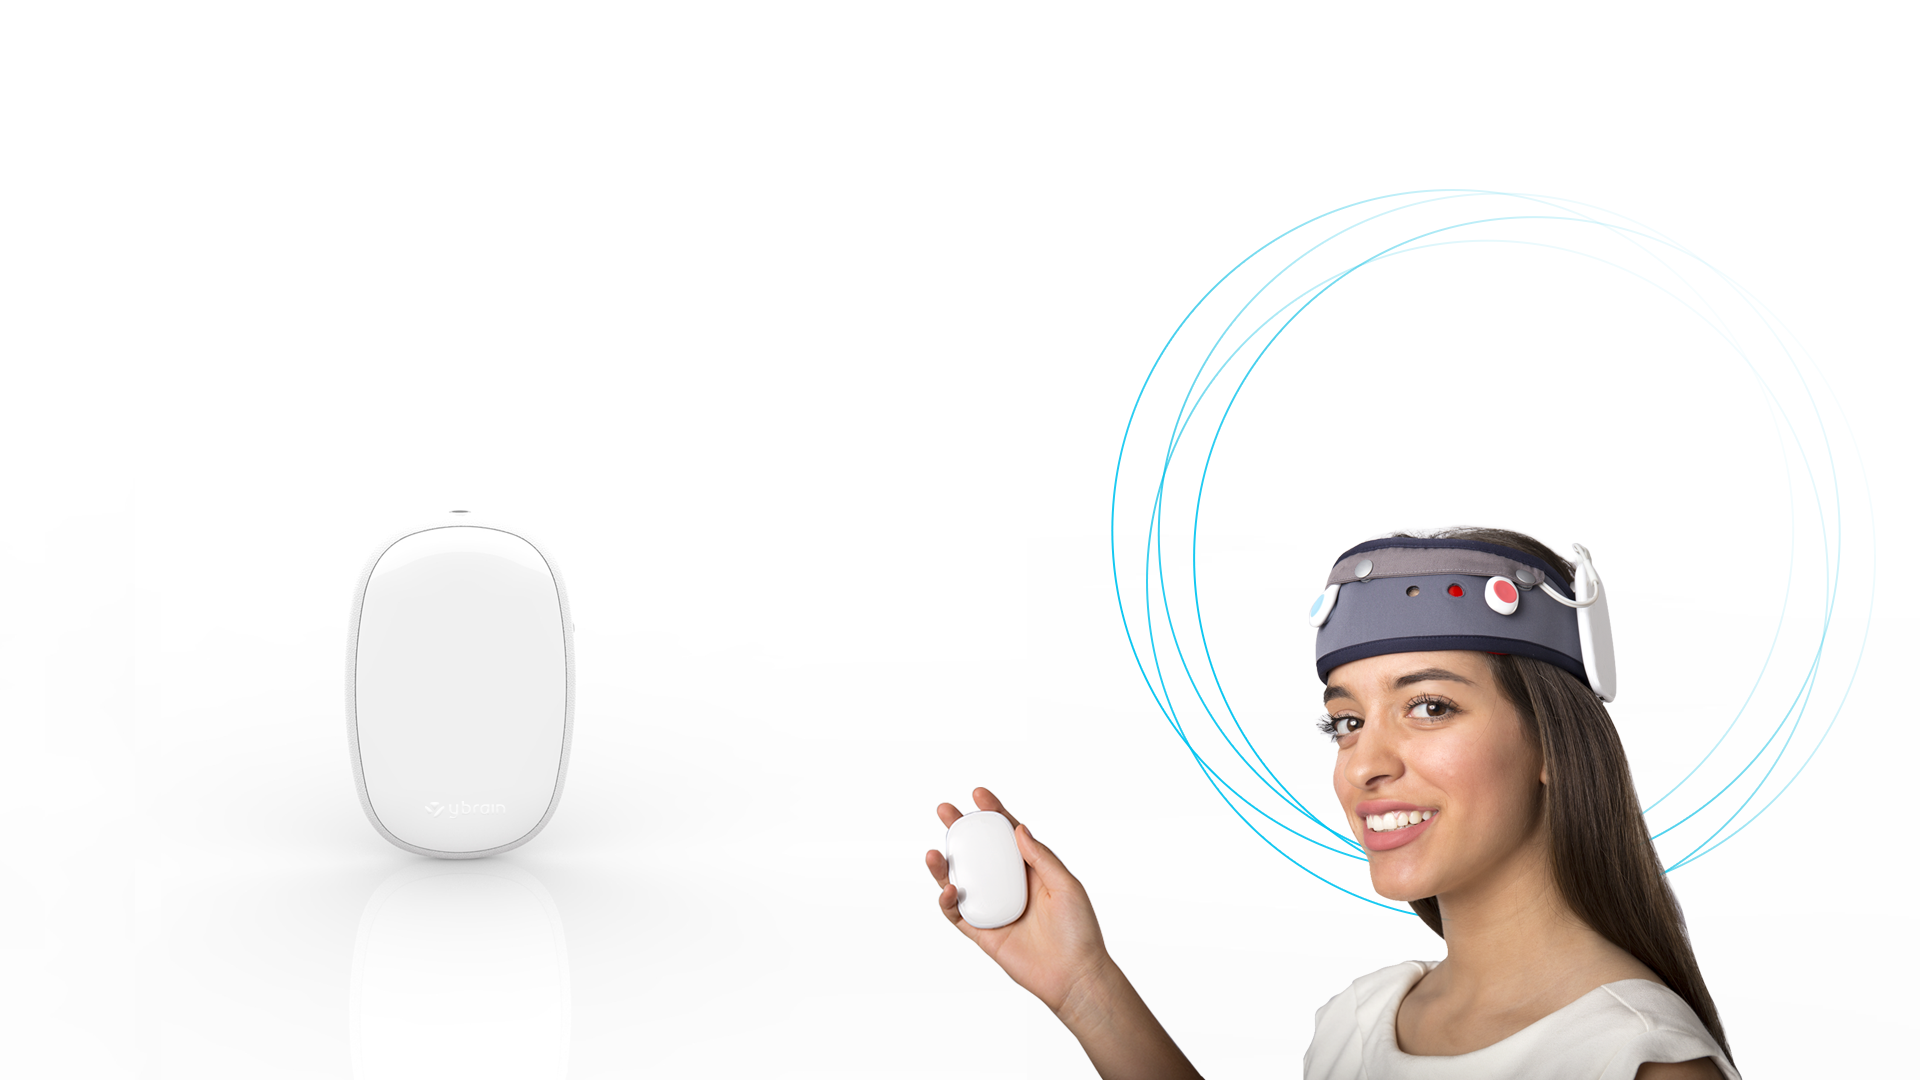
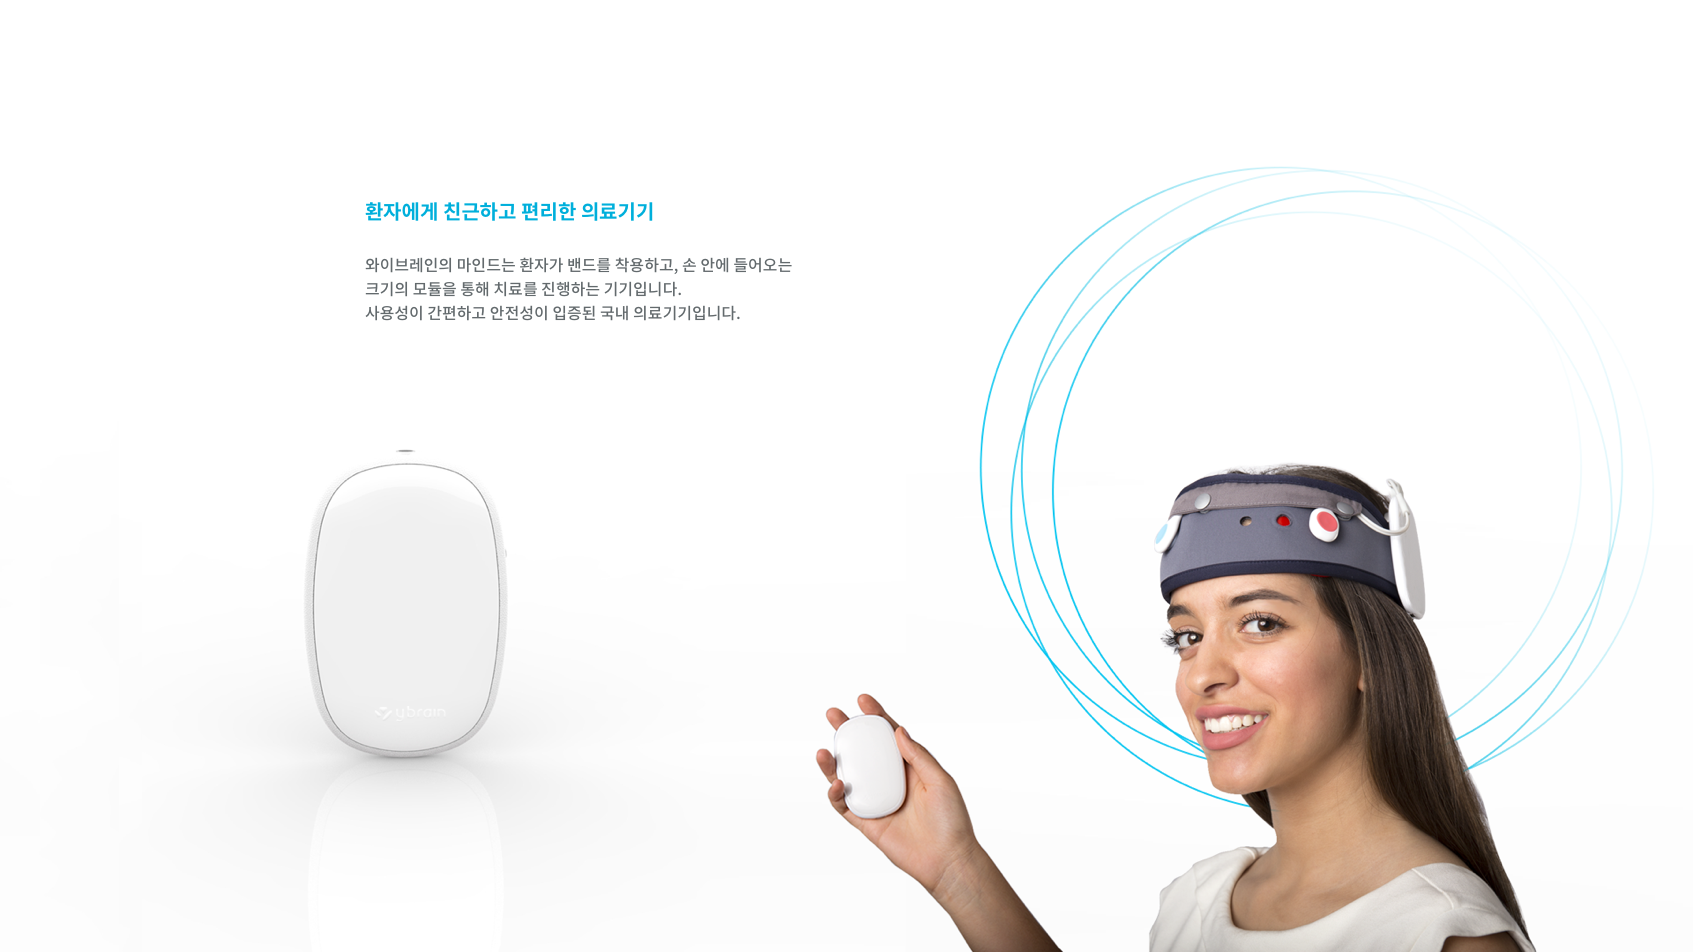
Update desktop landing page images & work on desktop about us page

Changed region(s): [[0.215, 0.2742, 0.4607, 0.3351], [0.215, 0.2132, 0.3993, 0.2437]]

diff --git a/src/components/Contacts/index.js b/src/components/Contacts/index.js
@@ -51,7 +51,7 @@ handleImageLoad (event) {
   
   render () {
     return (
-      <div className='inner-container'>
+      <div className='contact-inner-container'>
         <Desktop>
           <div className='contact-map'>
             <GoogleMap />
@@ -63,22 +63,22 @@ handleImageLoad (event) {
           </div>
         </Mobile>
         <div className='main-container'>
-          <div className='contact-left'>
-            <p className='contact-title'>Follow Us</p>
-            <div className='social-media-container'>
-              <a className='socialmedia' href='https://www.facebook.com/ybrain.inc/' target='_blank' rel='noopener noreferrer'>
-                  <img alt={'facebook'} src={require('../../assets/facebook-solid.svg')} />
-              </a>
-              <a className='socialmedia' href='https://www.twitter.com/' target='_blank' rel='noopener noreferrer'>
-                  <img alt={'twitter'} src={require('../../assets/twitter-solid.svg')} />
-              </a>
-              <a className='socialmedia' href='http://www.naver.com/' target='_blank' rel='noopener noreferrer'>
-                  <img alt={'naver-blog'} src={require('../../assets/naver-blog-solid.svg')} />
-              </a>
-              <a className='socialmedia' href='https://www.linkedin.com/company-beta/3571676/' target='_blank' rel='noopener noreferrer'>
-                  <img alt={'linkedin'} src={require('../../assets/linkedin-solid.svg')} />
-              </a>
-            </div>
+            <div className='contact-left'>
+              <p className='contact-title'>Follow Us</p>
+              <div className='social-media-container'>
+                <a className='socialmedia' href='https://www.facebook.com/ybrain.inc/' target='_blank' rel='noopener noreferrer'>
+                    <img alt={'facebook'} src={require('../../assets/facebook-solid.svg')} />
+                </a>
+                <a className='socialmedia' href='https://www.twitter.com/' target='_blank' rel='noopener noreferrer'>
+                    <img alt={'twitter'} src={require('../../assets/twitter-solid.svg')} />
+                </a>
+                <a className='socialmedia' href='http://www.naver.com/' target='_blank' rel='noopener noreferrer'>
+                    <img alt={'naver-blog'} src={require('../../assets/naver-blog-solid.svg')} />
+                </a>
+                <a className='socialmedia' href='https://www.linkedin.com/company-beta/3571676/' target='_blank' rel='noopener noreferrer'>
+                    <img alt={'linkedin'} src={require('../../assets/linkedin-solid.svg')} />
+                </a>
+          </div>  
             <p className='contact-title'>General Inquiry</p>
             <p className='contact-content'>inquiries@ybrain.com  I   +82 0321234567</p>
             <p className='contact-title'>Career</p>

diff --git a/src/components/AboutUs/index.js b/src/components/AboutUs/index.js
@@ -28,6 +28,31 @@ class AboutUs extends Component {
             <h2 className='main-container-title'>About Us</h2>
           </div>
           <div className='main-container-content' />
+            <div className='about-us-company'>
+              <p className='company-title'>"Think<br/><font style={{color:'#00afdb'}}>Heal</font>thy"</p>
+              <p className='company-text'>와이브레인이 뇌 과학을 통해 혁신하고자 하는 방향입니다.</p>
+              <div className='mission'>
+                <div className='mission-image'>
+                  <img alt={'mission'} src={require('../../assets/img-mission.png')} />
+                </div>
+                <div class='mission-text'>
+                  <hr className='bar' width="70px;" height="2px;" border="solid 2px" color="#00afdb" align="left"></hr>
+                  <p className='mission-title'>MISSION</p>
+                  <p className='mission-contents'>와이브레인은 뇌 과학을 통해서 헬스케어 혁신을 이루고자 합니다.<br />우리는 정신질환 환자들을 위한 치료, 진단, 관리를 모두 포함하는, 혁신이 될 헬스케어 솔루션을 개발하고 있습니다. 우리가 가진 기술로 더 많은 환자들의 일상의 질을 개선하고, 치료기간동안 더 나은 경험을 제공하고자 합니다.</p>
+                </div>
+              <div className='vision'>
+                <div className='vision-image'>
+                  <img alt={'vision'} src={require('../../assets/img-vision.png')} />
+                </div>
+                <div className='vision-text'>
+                  <hr className='bar' width="70px;" height="2px;" border="solid 2px" color="#00afdb" align="left"></hr>
+                  <p className='vision-title'>VISION</p>
+                  <p className='vision-contents'>우리는 혁신을 통해서 가치를 창출합니다. <br />신경과학, 기기개발, 컴퓨터 공학등 다양한 분야를 기반으로 언제 어디서나 환자들의 뇌 기능 상태를 분석, 저장, 강화, 관리하는 혁신적인 솔루션을 개발합니다. 우리는 협력을 통해 진보함으로써 우리가 이루고자 하는 가치를 창출해냅니다. 와이브레인이 가진 기업문화, 즉 협력을 통한 진보는 모두 회사 구성원들과 Ybrain의 파트너에 의한 것이며 그것이 우리가 함께 일하는 방식입니다.</p>
+                </div>
+              </div>
+               </div> 
+            </div>
+            <img className='timeline' alt={'company-timeline'} src={require('../../assets/img-timeline.png')} />
         </div>
         <CommonContact />
       </div>

diff --git a/src/components/AboutUs/style.css b/src/components/AboutUs/style.css
@@ -1,0 +1,98 @@
+
+/*COMMON*/
+
+.company-title{
+    font-size: 100px;
+    font-weight: bold;
+    text-align: center;
+}
+
+.company-text {
+    text-align: center;
+    font-size: 16px;
+    margin-top: -40px;
+}
+
+.about-us-company {
+    padding-bottom: 230px;
+}
+
+.timeline {
+    margin-bottom: -162px;
+    padding-top: 230px;
+}
+
+/*MISSION*/
+
+.mission {
+    padding-top: 254px;
+}
+
+.mission-image {
+    float: right;
+}
+
+.mission-text {
+    float: left;
+    margin-right: 30px;
+}
+
+.bar {
+    float: left;
+}
+
+.mission-title {
+    padding-top: 18px;
+    font-family: Poppins;
+	font-size: 30px;
+	font-weight: 600;
+    text-align: left;
+	color: #00afdb;
+}
+
+.mission-contents {
+    line-height: 1.5;
+	width: 429px;
+	height: 120px;
+	font-size: 16px;
+	color: #000000;
+    text-align: left;
+}
+
+
+/*VISION*/
+
+.vision {
+    padding-top: 140px;
+    float: left;
+}
+
+.vision-image {
+    float: left;
+}
+
+.vision-text {
+    float: right;
+    margin-left: 30px;
+}
+
+.bar {
+    float: left;
+}
+
+.vision-title {
+    font-family: Poppins;
+	font-size: 30px;
+	font-weight: 600;
+    text-align: left;
+	color: #00afdb;
+}
+
+.vision-contents {
+    line-height: 1.5;
+	width: 429px;
+	height: 120px;
+	font-size: 16px;
+	color: #000000;
+    text-align: left;
+}

diff --git a/src/components/Contacts/style.css b/src/components/Contacts/style.css
@@ -1,6 +1,7 @@
 .contact-map {
     width: 100%;
     height: 385px;
+    padding-bottom: 200px;
 }
 
 
@@ -12,27 +13,25 @@
     margin-top: -25px;
 }
 
-.inner-container{
+.contact-inner-container{
     background-color: #F5F5F5;
     display: inline-block;
     width: 100%;
     text-align: center;
 }
 
-.main-container {
+.contacts-container{
     width: 100%;
     max-width: 1000px;
-    margin: 0 auto;
-    padding-top: 200px;
-    padding-bottom: 140px;
     display: inline-block;
+    vertical-align: middle;
 }
+
 
 @media screen and (max-width: 1000px) and (min-width: 768px) {
     .contact-container {
         max-width: 768px;
     }
-}
 
 .contact-left{
     float: left;
@@ -79,6 +78,7 @@
     box-sizing: border-box;
 }
 
+
 .contact .first {
     box-sizing: border-box;
     padding-right: 10px;
@@ -124,6 +124,7 @@
     background-color: #00afdb;
 }
 
+}
 
 @media screen and (max-width: 768px) {
     .contact-container {
@@ -150,7 +151,7 @@
 
     .contact-input {
         margin-bottom: 10px;
-        
+
     }
 
     .contact .first {
@@ -164,4 +165,3 @@
     }
 
 }
-

diff --git a/src/index.css b/src/index.css
@@ -7,6 +7,7 @@ body {
 .inner-container{
   width: 100%;
   text-align: center;
+  background-color: white;
 }
 
 .main-img {
@@ -19,6 +20,7 @@ body {
   max-width: 1000px;
   display: inline-block;
   vertical-align: middle;
+  padding-bottom: 160px;
   }
 
 .main-container-header {
@@ -46,7 +48,6 @@ body {
 .main-container-content {
   clear: both;
   height: 100%;
-  padding-bottom: 160px;
 }
 
 @media screen and (max-width: 768px) {

diff --git a/src/components/Home/image-gallery.css b/src/components/Home/image-gallery.css
@@ -225,12 +225,12 @@
     background-color: #d1d1d1;
     border: 0px solid;
     width: 80px;
-    height: 1px;
-    border-radius: 100px;
+    height: 1;
+    border-radius: 200px;
     box-shadow: 0 0 0;
     cursor: pointer;
     display: inline-block;
-    margin: 0 8px;
+    margin: 0 6px;
     outline: none;
  }
     @media (max-width: 768px) {

diff --git a/src/components/Home/style.css b/src/components/Home/style.css
@@ -7,6 +7,7 @@
     width: 100%;
     background-color: #f5f5f5;
     text-align: center;
+    padding-top:200px;
 }
 
 .contact-container {
@@ -17,6 +18,7 @@
     padding-bottom: 140px;
     display: inline-block;
 }
+
 
 @media screen and (max-width: 1000px) and (min-width: 768px) {
     .contact-container {
